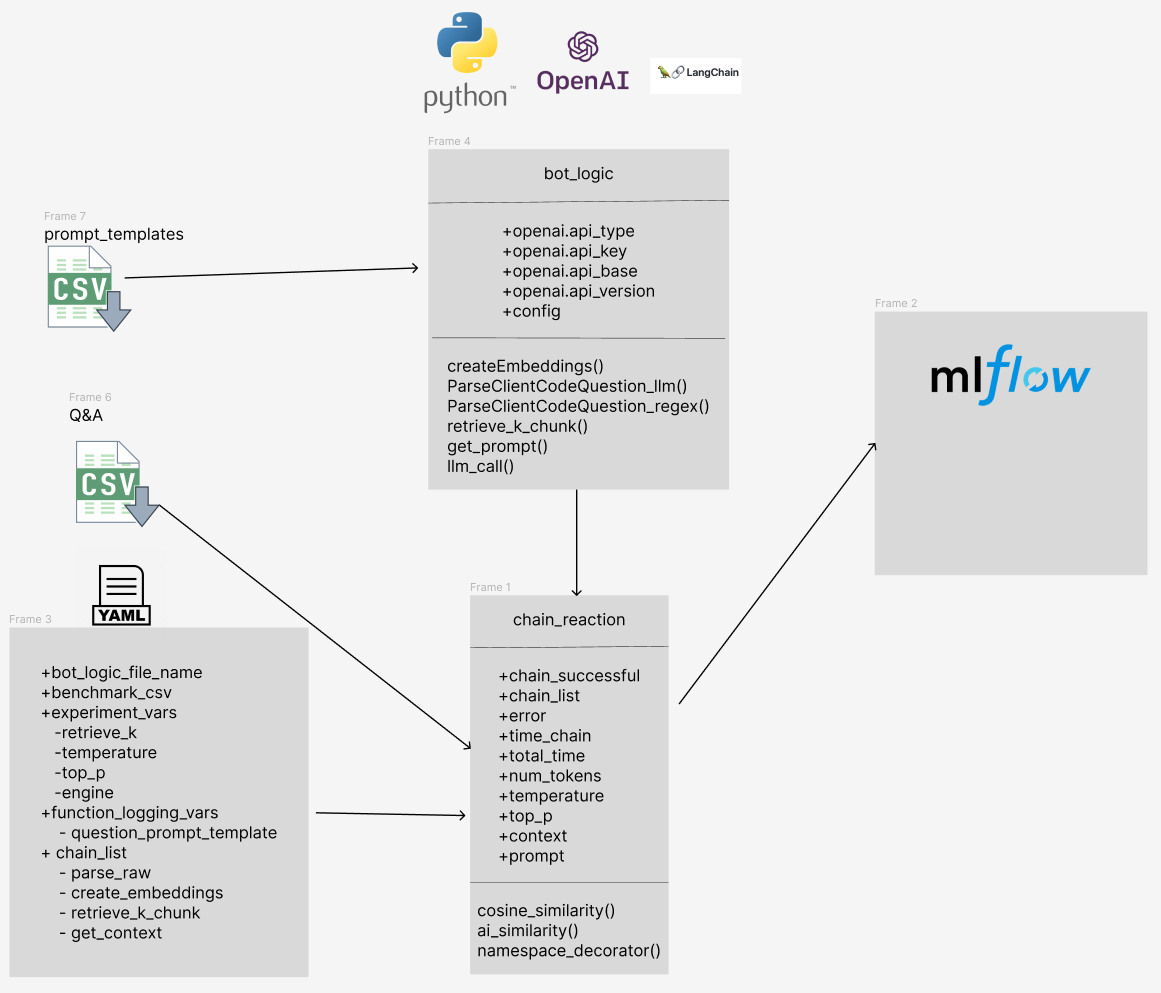
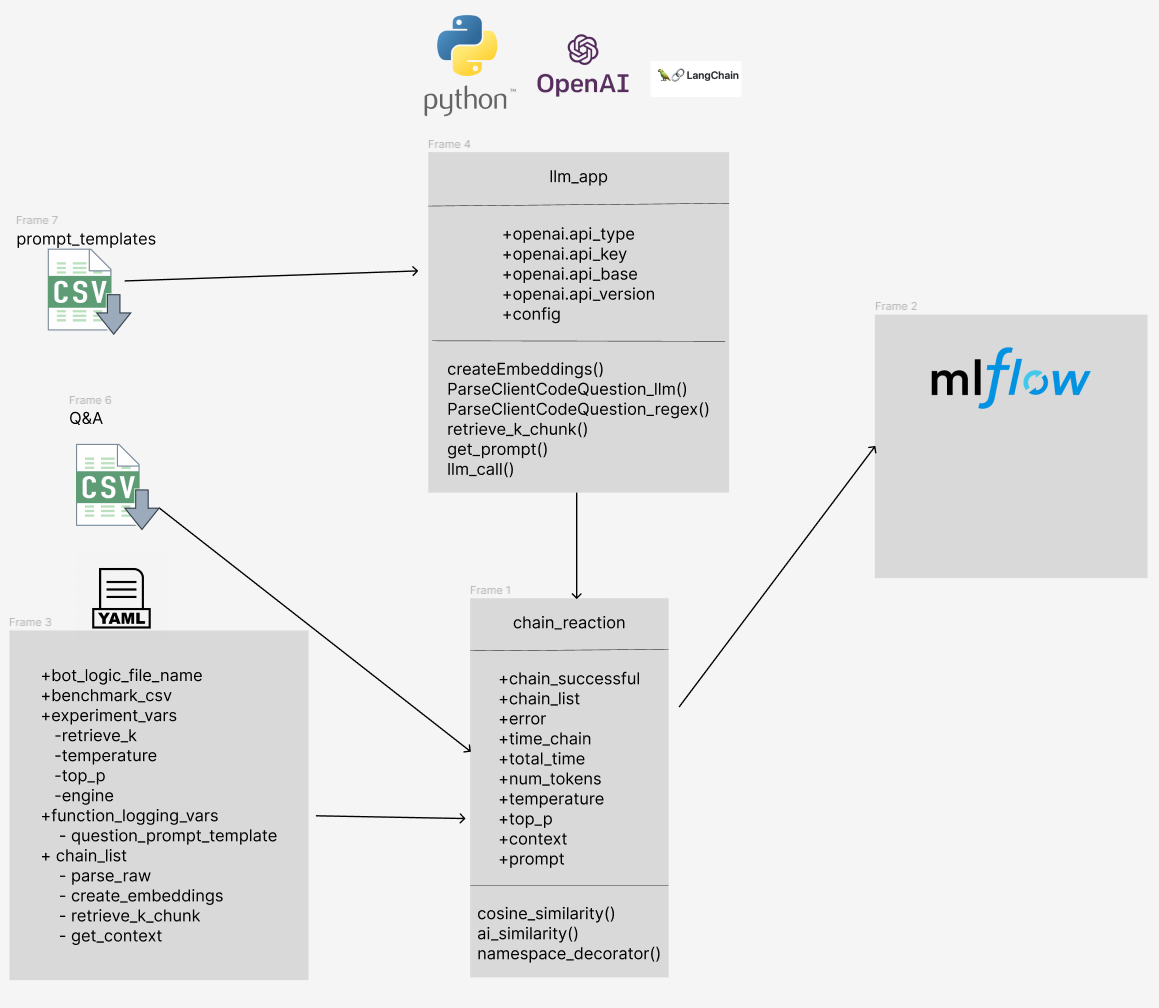
bugfix using input_var in case user does not start sequence with msg. bugfix repeat function names by using list instead of dictionary with unique keys in config.yaml

diff --git a/chain_reaction.py b/chain_reaction.py
@@ -99,14 +99,16 @@ def main(config_file):
     for key in config['internal_logged_vars']:
         df_result[key] = np.nan
 
-    for key, val in config['chain_instruct'].items():
-        for outp in val['out']:
+    for instruction in chain_instruct:
+        for outp in instruction['out']:
             df_result[outp] = np.nan
 
     with mlflow.start_run(run_name=mlflow_run_name) as run:
         if config['experiment_vars'] != None:
             mlflow.log_params(config['experiment_vars'])
-        mlflow.log_param('sequence', list(config['chain_instruct'].keys()))
+
+        sequence = [instr['fxn_name'] for instr in chain_instruct] 
+        mlflow.log_param('sequence', sequence)
 
         grace_stop = False
         for i, row in df.iterrows():
@@ -114,19 +116,17 @@ def main(config_file):
             raw_msg = row['Question']
             a_true = row['Answer']
 
-            # Find the first input variable from the dictionary chain_instruct
-            input_var = list(chain_instruct.values())[0]['in'][0]
             # Initialize hash map for inputs/outputs of each chain function
-            link = {input_var: raw_msg}
+            link = {config['input_var']: raw_msg}
 
             if config['experiment_vars'] != None:
                 link.update(config['experiment_vars'])
 
-            for key, val in chain_instruct.items():
+            for chain_num, instruction in enumerate(chain_instruct):
                 start = time.time()
-                if key in chain_fxns.__dict__.keys():
+                if instruction['fxn_name'] in chain_fxns.__dict__.keys():
                     # Use wrapper to get local variables
-                    fxn = namespace_decorator(chain_fxns.__dict__[key])
+                    fxn = namespace_decorator(chain_fxns.__dict__[instruction['fxn_name']])
                     
                     # Run chain function with args from schema
                     for attempt in range(RETRIES):
@@ -135,7 +135,7 @@ def main(config_file):
 
                         try:
                             result_module, result = fxn(
-                                *(link[inp] for inp in val['in'])
+                                *(link[inp] for inp in instruction['in'])
                             )
 
                             # Check if config['internal_logged_vars'] keys are in result_module
@@ -149,10 +149,10 @@ def main(config_file):
                                         df_result[hyp_key][i] = result_module.__dict__[hyp_key]
                             
                             # Update link dictionary with outputs
-                            if len(result) > 1 and len(val['out']) > 1:
-                                [link.update({outp: result[i]}) for i, outp in enumerate(val['out'])]
+                            if len(result) > 1 and len(instruction['out']) > 1:
+                                [link.update({outp: result[i]}) for i, outp in enumerate(instruction['out'])]
                             else:
-                                [link.update({outp: result}) for outp in val['out']]
+                                [link.update({outp: result}) for outp in instruction['out']]
                         
                         except Exception:
                             print("Error at chain {}".format(key))
@@ -169,19 +169,19 @@ def main(config_file):
                     exit()
 
                 # On final chain, calculate metrics
-                if key == list(chain_instruct.keys())[-1]:
+                if chain_num == len(sequence)-1:
                     # Log time
                     end = time.time()
                     df_result['time'][i] = np.round(end - start, 4)
                     
-                    df_result['generated'][i] = link[val['out'][0]]
+                    df_result['generated'][i] = link[instruction['out'][0]]
 
                     # Choose scoring method and utilize
                     for method in scoring_methods:
                         if method == 'cosine_similarity':
                             for attempt in range(RETRIES):
                                 try:
-                                    cosine_similarity_score = get_cosine_similarity(a_true, link[val['out'][0]])
+                                    cosine_similarity_score = get_cosine_similarity(a_true, link[instruction['out'][0]])
                                     time.sleep(0.1)
                                     df_result[method][i] = np.round(cosine_similarity_score, 4)
                                 except Exception:
@@ -198,7 +198,7 @@ def main(config_file):
                         if method == 'ai_similarity':
                             for attempt in range(RETRIES):
                                 try:
-                                    ai_similarity_score = AI_similarity(a_true, link[val['out'][0]], link[input_var])
+                                    ai_similarity_score = AI_similarity(a_true, link[instruction['out'][0]], link[input_var])
                                     time.sleep(0.1)
                                     df_result[method][i] = ai_similarity_score
                                 except Exception:
@@ -213,8 +213,8 @@ def main(config_file):
                                     break
 
                     # Log each output of each chain function
-                    for key, val in config['chain_instruct'].items():
-                        for outp in val['out']:
+                    for instruction in chain_instruct:
+                        for outp in instruction['out']:
                             if type(link[outp]) == list or type(link[outp]) == dict:
                                 # Do not log things like embeddings
                                 pass

diff --git a/README.md b/README.md
@@ -22,12 +22,12 @@ chain-reaction
 │---evals.py                     
 ├───bot                          
     │---example.env         
-    │---bot_logic.py                
+    │---llm_app.py                
     │---benchmark_QA.csv         
     │---prompt_templates.csv         
 ```
 
-*** Note: For specific logic to allow experimenting, add `bot_logic.py` separately. Some example connections with custom databases and integrations with openai are presented here: https://github.com/microsoft/AzureDataRetrievalAugmentedGenerationSamples/tree/main/Python. Please end-to-end examples are shared separately. 
+*** Note: For specific logic to allow experimenting, add `llm_app.py` separately. Some example connections with custom databases and integrations with openai are presented here: https://github.com/microsoft/AzureDataRetrievalAugmentedGenerationSamples/tree/main/Python. Please end-to-end examples are shared separately. 
 
 1. Install miniconda and create a virtual environment
 ```bash
@@ -36,7 +36,7 @@ conda env update -f environment.yaml
 2. Place relevant bot files like `.env`, `.py` into the folder named `/bot`
 3. Update the `.env` file to include OpenAI embedding models
 4. Install requirements for your bot
-5. Update the `config.yaml` with your `bot_logic_file_name` from the `/bot` folder
+5. Update the `config.yaml` with your `llm_app_file_name` from the `/bot` folder
 6. Place `.csv` of benchmark Q&A in the folder named `/bot`
 
 | Question      | Answer |
@@ -45,13 +45,13 @@ conda env update -f environment.yaml
 | What is the composition of the universe? | The universe is primarily made up of dark energy, dark matter, and ordinary matter, with ordinary matter being the most familiar to us. |
 
 7. Update the `config.yaml` with your `benchmark_csv` from the `/bot` folder
-8. Update the `config.yaml` with the in/out variable names in your chain sequence
-9. Update the `config.yaml` with any constants you want to set as args for functions
+8. Update the `config.yaml` with the in/out variable names in your chain sequence, be sure to define the `input_var` for your LLM message variable name in case your initial function in the chain sequence takes different inputs
+9. Update the `config.yaml` with any `experiment_vars` you want to set as args for functions
 10. Update the `config.yaml` with variable names you want to log from function scopes under `internal_logged_vars`
 
 Example config file below:
 ```yaml
-llm_app_file_name: bot_logic
+llm_app_file_name: llm_app
 benchmark_csv: benchmark_QA
 env_file_name: llm_pgvector
 mlflow_experiment_name: Default
@@ -59,41 +59,36 @@ mlflow_run_name: run 1
 evaluation_metrics:
   cosine_similarity: true
   ai_similarity: false
+input_var: msg
 experiment_vars:
-  retrieve_k: 3
   prompt_templates_name: prompt_templates
-  prompt_id: 1
+  prompt_id_a: 2
+  prompt_id_b: 2
 internal_logged_vars:
   - engine
-  - prompt_template
 chain_instruct:
-  createEmbeddings:
-    in:
-      - msg
-    out:
-      - questionEmbedding
-  retrieve_k_chunk:
-    in:
-      - retrieve_k
-      - questionEmbedding
-    out:
-      - top_rows
-  get_context:
-    in:
-      - top_rows
-    out:
-      - context
-  get_prompt:
+  - fxn_name: get_prompt
     in:
       - prompt_templates_name
-      - prompt_id
+      - prompt_id_a
     out:
-      - prompt_template
-  llm_call:
+      - prompt_template_a
+  - fxn_name: llm_call
     in:
-      - context
       - msg
-      - prompt_template
+      - prompt_template_a
+    out:
+      - result
+  - fxn_name: get_prompt
+    in:
+      - prompt_templates_name
+      - prompt_id_b
+    out:
+      - prompt_template_b
+  - fxn_name: llm_call
+    in:
+      - msg
+      - prompt_template_b
     out:
       - ans
 ```
